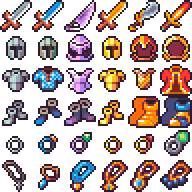
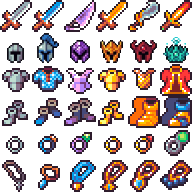
v186: tốc độ lên cấp bám theo ải, cấp đồ rơi 1-85 theo ải, hình mũ mới
Claude-Session: https://claude.ai/code/session_014dDJFgpBf2uephg2yojD2h

Changed region(s): [[0.3438, 0.1562, 1.0, 0.3438], [0.1875, 0.1562, 0.3125, 0.3438], [0.0312, 0.1875, 0.1562, 0.3438]]

diff --git a/index.html b/index.html
@@ -173,7 +173,7 @@ button:focus-visible,input:focus-visible{outline:2px solid var(--gold);outline-o
 @media (max-width:640px){#fight .fname{font-size:17px}#fight .fsk button{min-width:70px;height:46px;font-size:12px}#fight .fhero{min-width:0;width:100%}#fight .fhero .bar{width:100%}#fight .fhero>div{flex:1}}
 /* trang bị */
 #hProf{cursor:pointer;pointer-events:auto}
[2 lines of base64/hex data omitted]
 .eqi.t1{border-color:#3b8fe0;background-color:#1d2c40}.eqi.t2{border-color:#a35ee8;background-color:#2c1f3d}.eqi.t3{border-color:#f08a1c;background-color:#3d2a14;box-shadow:0 0 6px #f08a1c88}
 .eqi.t4{border-color:#e8384f;background-color:#3d1820;box-shadow:0 0 8px #e8384faa}.eqi.t5{border-color:#16c9b0;background-color:#123532;box-shadow:0 0 10px #16c9b0;animation:eterna 2.4s linear infinite}
 @keyframes eterna{0%{border-color:#16c9b0}33%{border-color:#ffd23f}66%{border-color:#d36cff}100%{border-color:#16c9b0}}
@@ -580,7 +580,7 @@ table.cmp .ok{color:#2f7a2a}table.cmp .no{color:#b22a1a}table.cmp tr.bad td{back
 <script>
 "use strict";
 // Phiên bản game: tăng mỗi lần phát hành để người chơi biết đang chạy bản nào
-const GAME_VER='185',GAME_DATE='31/10/2026';
+const GAME_VER='186',GAME_DATE='31/10/2026';
 // ================= cấu hình chung =================
 const T=64;
 const $=id=>document.getElementById(id);
@@ -1943,7 +1943,11 @@ function fixEq(){
 }
 function eqSum(){const o={};for(const k in STATS)o[k]=0;if(!S||!S.eq)return o;for(const s in S.eq){const it=S.eq[s];if(it)for(const k in it.st)o[k]+=it.st[k]}return o}
 const eqStat=k=>eqSum()[k];
-const heroNeed=lv=>60*lv;
+// v186: kinh nghiệm cần để lên cấp bám theo ải: cấp L cần khoảng 2,5 lần kinh nghiệm một lần đánh ải thứ L (ải trùm tính như ải 9 của chương),
+// nên nhân vật đánh mỗi ải vài lần thì cấp xấp xỉ số ải (ải 30 ~ cấp 30). Sau ải cuối mỗi cấp cần thêm 12%.
+const stageXP=(ci,k)=>{const st=stageInfo(ci,Math.min(k,8));return st.list.reduce((a,x)=>a+FOES[x].hp*st.m/KXP_DIV,0)};
+const HNEED=(()=>{const a=[0],N=CHAPTERS.length*10;for(let L=1;L<=N;L++){const s=L-1;a.push(Math.max(60*L,Math.round(2.5*stageXP(Math.floor(s/10),s%10))))}return a})();
+const heroNeed=lv=>lv<HNEED.length?HNEED[lv]:Math.round(HNEED[HNEED.length-1]*Math.pow(1.12,lv-HNEED.length+1));
 const r1=v=>Math.round(v*10)/10;
 function heroStats(){
   const lv=learnedList().reduce((a,k)=>a+S.profs[k].lvl,0),h=HERO_ATK.farmer,e=eqSum(),hl=(S.hero||{lv:1}).lv-1;
@@ -1974,7 +1978,8 @@ function giveItem(it){if(bagUsed()>=BAG_MAX){const g=TIERS[it.t].sell;S.gold+=g;
 // rơi đồ sau trận: chương sau và trùm cho phẩm cao hơn
 const DROP_W=[[70,25,5,0,0,0],[38,40,18,4,0,0],[20,38,28,12,2,0],[8,28,34,22,7,1],[0,20,34,28,14,4],[0,10,30,32,20,8],[0,5,24,34,26,11],[0,3,20,34,29,14],[0,2,16,32,32,18]],BOSS_W=[[0,25,55,20,0,0],[0,0,10,50,32,8],[0,0,0,40,45,15],[0,0,0,22,50,28],[0,0,0,10,50,40],[0,0,0,0,45,55],[0,0,0,0,40,60],[0,0,0,0,35,65],[0,0,0,0,30,70]];
 // cấp đồ rơi: cứ 3 ải tăng 1 cấp (chương 1 ải 1-3 cấp 1, ải 4-6 cấp 2 ...), đếm nối tiếp qua các chương
-const stageILv=(ci,k)=>Math.floor((ci*10+k)/3)+1;
+// cấp trang bị rơi ở ải: bám theo cấp của ải (ải 1 → cấp 1 ... ải 90 → cấp 85), trừ 2 cấp cho mặc được ngay, làm tròn bậc 1, 5, 10...
+const stageILv=(ci,k)=>ilvB(Math.max(1,ci*10+k+1-2));
 function rollDrop(ci,k,first){
   if(!first&&Math.random()>.35)return null;
   return rollItem(randSlot(),pickTier(k===9?BOSS_W[ci]:DROP_W[ci]),stageILv(ci,k));
